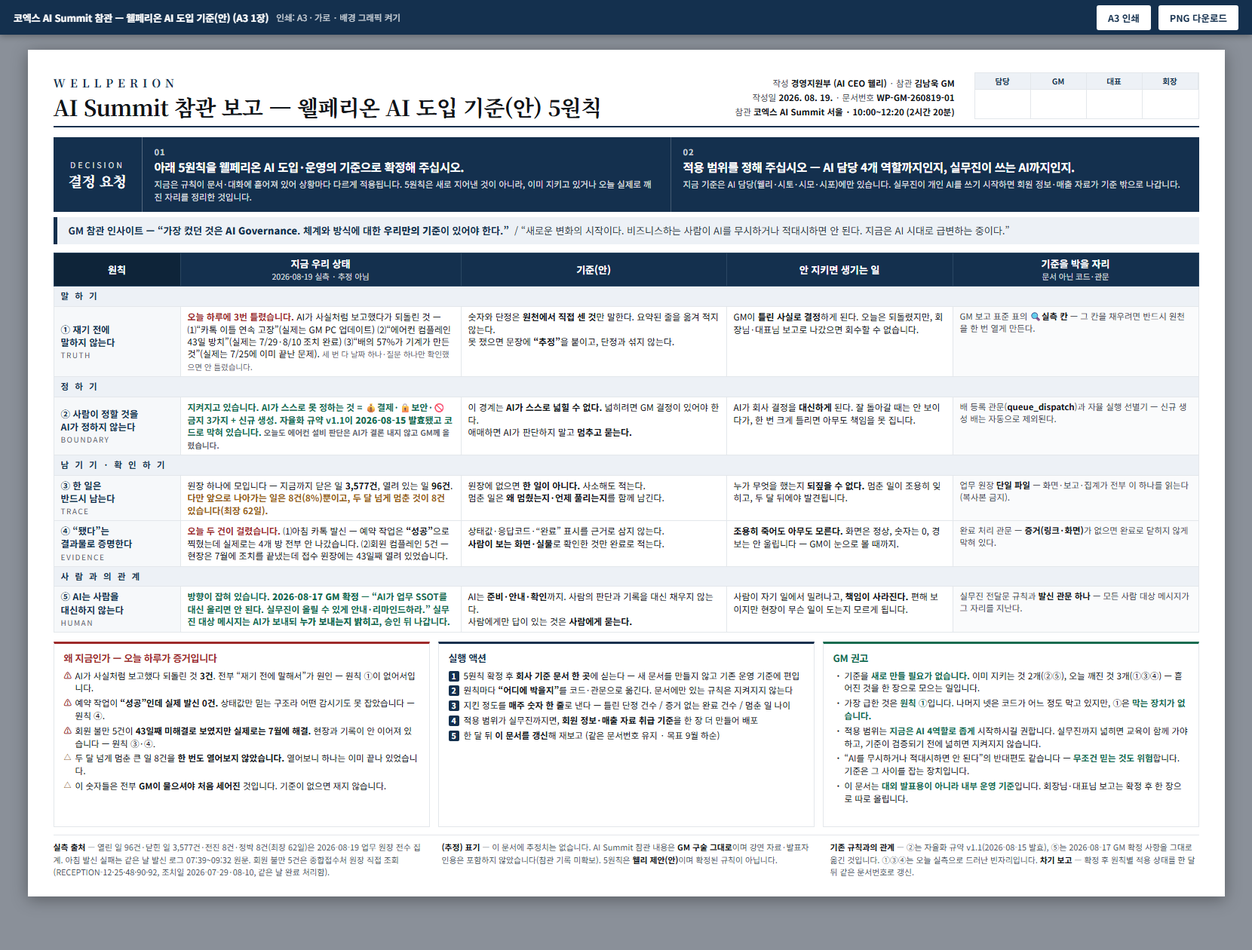
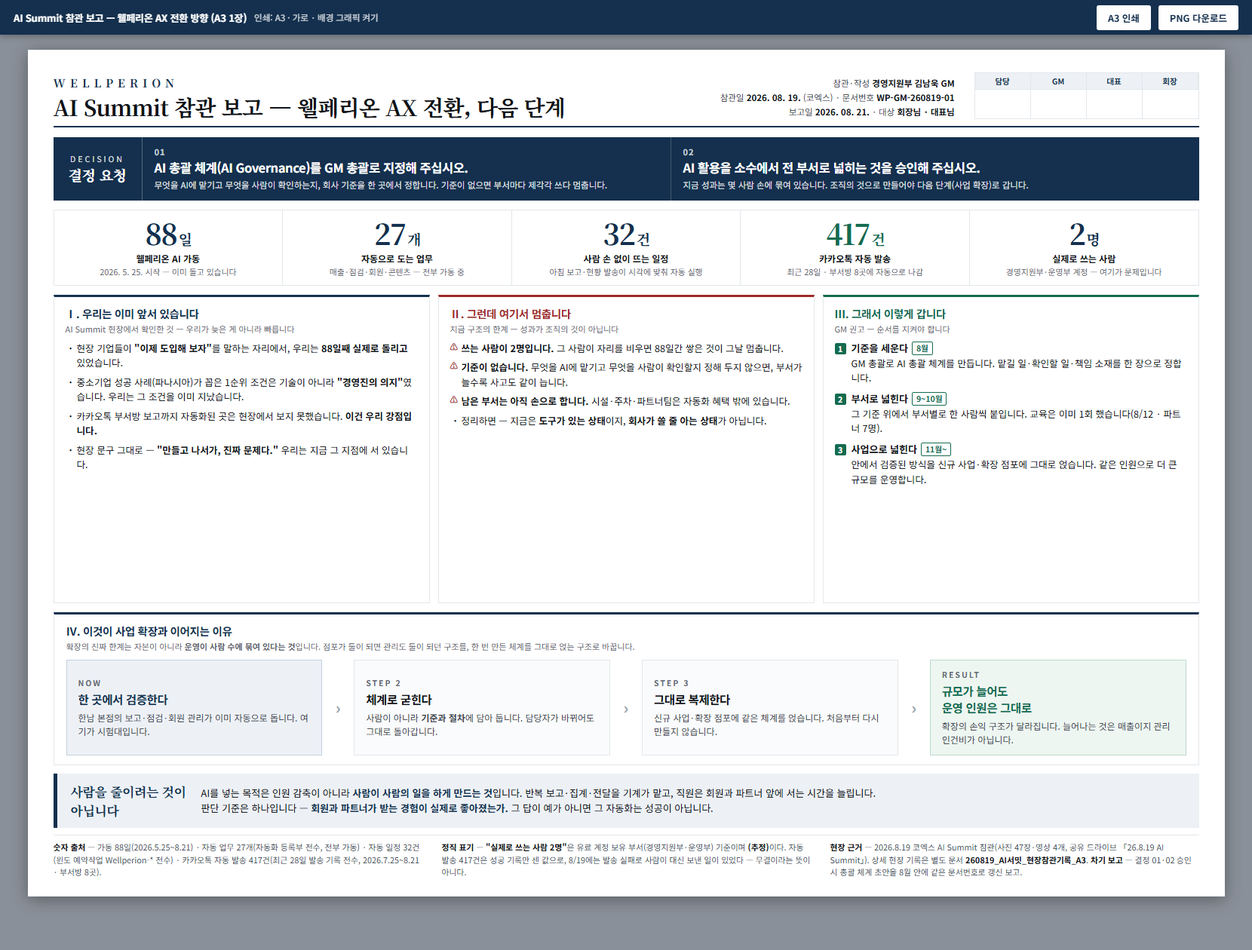
feat(gm): AI Summit 참관 보고 A3 — 경영진 보고본으로 재작성 (GM 지시 2026-08-21)
AI 내부 규율(5원칙)·실수 자백을 빼고, 경영진이 3초에 읽는 숫자 5개와
①우리는 이미 앞서 있다 ②그런데 쓰는 사람이 2명이다 ③3단계로 넓힌다 ④사업 확장으로 이어지는 흐름
⑤사람을 줄이려는 것이 아니다 — 로 다시 썼다. 결정 요청 = AI 총괄 체계 GM 지정 · 전 부서 확대 승인.
파일명·문서번호는 유지해 기존 링크가 그대로 산다.

diff --git a/3. 웰페리온 가이드/reports/260819_AI서밋_AI거버넌스기준_A3.html b/3. 웰페리온 가이드/reports/260819_AI서밋_AI거버넌스기준_A3.html
@@ -2,7 +2,7 @@
 <html lang="ko">
 <head>
 <meta charset="UTF-8">
-<title>코엑스 AI Summit 참관 — 웰페리온 AI 도입 기준(안) · A3 보고서</title>
+<title>코엑스 AI Summit 참관 — 웰페리온 AX 전환 방향 · A3 보고서</title>
 <link rel="preconnect" href="https://fonts.googleapis.com">
 <link rel="preconnect" href="https://fonts.gstatic.com" crossorigin>
 <link href="https://fonts.googleapis.com/css2?family=Noto+Sans+KR:wght@400;500;700;900&family=Noto+Serif+KR:wght@600;700&display=swap" rel="stylesheet">
@@ -56,55 +56,72 @@
   .ask .it{ flex:1; padding:11px 16px; border-right:1px solid rgba(255,255,255,.2); }
   .ask .it:last-child{ border-right:0; }
   .ask .n{ font-size:11px; font-weight:700; opacity:.75; letter-spacing:1px; }
-  .ask .q{ font-size:15.5px; font-weight:700; line-height:1.35; margin-top:2px; letter-spacing:-.4px; }
+  .ask .q{ font-size:16.5px; font-weight:700; line-height:1.35; margin-top:2px; letter-spacing:-.4px; }
   .ask .d{ font-size:11.5px; line-height:1.5; opacity:.86; margin-top:4px; }
 
-  /* 인사이트 밴드 (경고 밴드 자리 · 색만 네이비 계열) */
-  .band{ margin-top:7px; background:var(--navy-bg); border-left:5px solid var(--navy); color:var(--navy);
-    padding:8px 15px; font-size:13px; font-weight:700; line-height:1.5; }
-  .band span{ font-weight:400; color:#2E3B47; }
+  /* 숫자 밴드 — 경영진이 3초에 읽는 자리 */
+  .kpi{ margin-top:12px; display:flex; border:1px solid var(--line); }
+  .kpi .c{ flex:1; padding:11px 8px 10px; text-align:center; border-right:1px solid var(--line); }
+  .kpi .c:last-child{ border-right:0; }
+  .kpi .n{ font-family:'Noto Serif KR',serif; font-size:38px; font-weight:700; line-height:1;
+    color:var(--navy); letter-spacing:-1.5px; }
+  .kpi .n i{ font-style:normal; font-size:19px; margin-left:2px; }
+  .kpi .l{ font-size:12px; font-weight:700; margin-top:6px; }
+  .kpi .s{ font-size:10.8px; color:#5C666F; margin-top:2px; line-height:1.4; }
+  .kpi .c.hi .n{ color:var(--good); }
 
-  /* ③ 기준표 */
-  .tblwrap{ margin-top:11px; }
-  table{ width:100%; border-collapse:collapse; table-layout:fixed; }
-  th,td{ border:1px solid var(--line); padding:5px 9px; font-size:11.9px; line-height:1.38; vertical-align:top; }
-  thead th{ height:36px; background:var(--navy); color:#fff; font-weight:700; font-size:13px; border-color:#2A4763;
-    vertical-align:middle; }
-  thead th.k{ background:#0E2439; }
-  thead th .sub{ display:block; font-size:10.5px; font-weight:400; opacity:.8; margin-top:1px; }
-  td.k{ background:#F6F8FA; font-weight:700; font-size:12.4px; color:var(--navy); vertical-align:middle; }
-  td.k .en{ display:block; font-size:10px; font-weight:400; color:#5C666F; letter-spacing:1.5px; margin-top:1px; }
-  tr.grp td{ height:22px; background:var(--navy-bg); color:var(--navy); font-weight:700;
-    font-size:11.5px; letter-spacing:2.5px; }
-  .ctr{ text-align:center; }
-  .good{ color:var(--good); font-weight:700; }
-  .warn{ color:var(--warn); font-weight:700; }
-  .bad{ color:var(--bad); font-weight:700; }
-  .est{ color:#5C666F; font-size:10.5px; }
-  td.where{ background:#FAFBFC; font-size:11.4px; color:#3C464F; }
-  td.where b{ color:var(--ink); }
-
-  /* ④ 3분할 */
+  /* ③ 3열 */
   .cols{ margin-top:12px; display:flex; gap:11px; flex:1; }
-  .box{ flex:1; border:1px solid var(--line); border-top:3px solid var(--navy); padding:9px 13px 8px; }
-  .box h3{ font-size:13px; font-weight:700; color:var(--navy); letter-spacing:-.3px; margin-bottom:6px; }
+  .box{ flex:1; border:1px solid var(--line); border-top:3px solid var(--navy); padding:11px 15px 10px;
+    display:flex; flex-direction:column; }
+  .box h3{ font-size:14.5px; font-weight:700; color:var(--navy); letter-spacing:-.3px; }
+  .box .sub{ font-size:11px; color:#5C666F; margin:2px 0 8px; }
   .box ul{ list-style:none; }
-  .box li{ font-size:11.6px; line-height:1.45; padding-left:15px; position:relative; margin-bottom:3px; }
+  .box li{ font-size:12.6px; line-height:1.55; padding-left:15px; position:relative; margin-bottom:6px; }
   .box li::before{ content:'·'; position:absolute; left:5px; font-weight:700; }
+  .box li b{ font-weight:700; }
   .box li.r1::before{ content:'⚠'; left:0; font-size:10.5px; color:var(--bad); }
-  .box li.r2::before{ content:'△'; left:0; font-size:10px; color:var(--warn); }
-  .box li.n::before{ content:counter(a); counter-increment:a; left:0; font-size:10.5px; font-weight:700;
-    color:#fff; background:var(--navy); width:14px; height:14px; line-height:14px; text-align:center; border-radius:2px; top:2px; }
-  .box ul.ord{ counter-reset:a; }
-  .box li.n{ padding-left:20px; }
-  .box.rec{ border-top-color:var(--good); }
-  .box.rec h3{ color:var(--good); }
-  .box.rec b{ color:var(--good); }
   .box.risk{ border-top-color:var(--bad); }
   .box.risk h3{ color:var(--bad); }
+  .box.rec{ border-top-color:var(--good); }
+  .box.rec h3{ color:var(--good); }
+  .box ul.ord{ counter-reset:a; }
+  .box li.n{ padding-left:22px; margin-bottom:8px; }
+  .box li.n::before{ content:counter(a); counter-increment:a; left:0; font-size:10.5px; font-weight:700;
+    color:#fff; background:var(--good); width:15px; height:15px; line-height:15px; text-align:center;
+    border-radius:2px; top:3px; }
+  .stage{ font-size:13px; font-weight:700; }
+  .when{ display:inline-block; font-size:10.5px; font-weight:700; color:var(--good);
+    border:1px solid var(--good); border-radius:2px; padding:0 5px; margin-left:5px; vertical-align:1px; }
+
+  /* ③-2 사업 확장 흐름 */
+  .grow{ margin-top:12px; flex:none; border:1px solid var(--line); border-top:3px solid var(--navy);
+    padding:11px 16px 12px; display:flex; flex-direction:column; }
+  .grow h3{ font-size:14.5px; font-weight:700; color:var(--navy); letter-spacing:-.3px; }
+  .grow .sub{ font-size:11px; color:#5C666F; margin:2px 0 0; }
+  .flow{ margin-top:10px; flex:1; display:flex; align-items:stretch; gap:0; }
+  .flow .st{ flex:1; border:1px solid var(--line); background:#FAFBFC; padding:11px 15px;
+    display:flex; flex-direction:column; justify-content:center; }
+  .flow .st .tag{ font-size:10.5px; font-weight:700; letter-spacing:2px; color:#5C666F; }
+  .flow .st .h{ font-size:15.5px; font-weight:700; letter-spacing:-.4px; margin-top:3px; }
+  .flow .st .d{ font-size:12px; line-height:1.5; color:#3C464F; margin-top:5px; }
+  .flow .st.now{ background:var(--navy-bg); border-color:#C3D0DE; }
+  .flow .st.now .h{ color:var(--navy); }
+  .flow .st.goal{ background:#EDF6F1; border-color:#BCD9CC; }
+  .flow .st.goal .h{ color:var(--good); }
+  .flow .ar{ flex:none; width:42px; display:flex; align-items:center; justify-content:center;
+    font-size:21px; color:#9AA5AF; font-weight:700; }
+
+  /* ④ 목적 밴드 */
+  .why{ margin-top:11px; background:var(--navy-bg); border-left:5px solid var(--navy);
+    padding:11px 18px; display:flex; align-items:center; gap:20px; }
+  .why .h{ font-family:'Noto Serif KR',serif; font-size:17px; font-weight:700; color:var(--navy);
+    letter-spacing:-.5px; white-space:nowrap; }
+  .why .t{ font-size:13px; line-height:1.55; }
+  .why .t b{ font-weight:700; color:var(--navy); }
 
   /* ⑤ 각주 */
-  .foot{ margin-top:10px; border-top:1px solid var(--line); padding-top:7px;
+  .foot{ margin-top:9px; border-top:1px solid var(--line); padding-top:7px;
     display:flex; gap:26px; font-size:10.8px; line-height:1.55; color:#48525B; }
   .foot div{ flex:1; }
   .foot b{ color:var(--ink); }
@@ -113,7 +130,7 @@
 <body>
 
 <div class="bar">
-  <b>코엑스 AI Summit 참관 — 웰페리온 AI 도입 기준(안) (A3 1장)</b>
+  <b>AI Summit 참관 보고 — 웰페리온 AX 전환 방향 (A3 1장)</b>
   <span class="note">인쇄: A3 · 가로 · 배경 그래픽 켜기</span>
   <span class="sp"></span>
   <button onclick="window.print()">A3 인쇄</button>
@@ -126,12 +143,12 @@
   <div class="head">
     <div>
       <div class="brand">WELLPERION</div>
-      <div class="title">AI Summit 참관 보고 — 웰페리온 AI 도입 기준(안) 5원칙</div>
+      <div class="title">AI Summit 참관 보고 — 웰페리온 AX 전환, 다음 단계</div>
     </div>
     <div class="meta">
-      작성 <b>경영지원부 (AI CEO 웰리)</b> · 참관 <b>김남욱 GM</b><br>
-      작성일 <b>2026. 08. 19.</b> · 문서번호 <b>WP-GM-260819-01</b><br>
-      참관 <b>코엑스 AI Summit 서울 · 10:00~12:20 (2시간 20분)</b>
+      참관·작성 <b>경영지원부 김남욱 GM</b><br>
+      참관일 <b>2026. 08. 19.</b> (코엑스) · 문서번호 <b>WP-GM-260819-01</b><br>
+      보고일 <b>2026. 08. 21.</b> · 대상 <b>회장님 · 대표님</b>
     </div>
     <div class="sign">
       <div><div class="t">담당</div><div class="b"></div></div>
@@ -147,122 +164,132 @@
     <div class="items">
       <div class="it">
         <div class="n">01</div>
-        <div class="q">아래 5원칙을 웰페리온 AI 도입·운영의 기준으로 확정해 주십시오.</div>
-        <div class="d">지금은 규칙이 문서·대화에 흩어져 있어 상황마다 다르게 적용됩니다. 5원칙은 새로 지어낸 것이 아니라, 이미 지키고 있거나 오늘 실제로 깨진 자리를 정리한 것입니다.</div>
+        <div class="q">AI 총괄 체계(AI Governance)를 GM 총괄로 지정해 주십시오.</div>
+        <div class="d">무엇을 AI에 맡기고 무엇을 사람이 확인하는지, 회사 기준을 한 곳에서 정합니다. 기준이 없으면 부서마다 제각각 쓰다 멈춥니다.</div>
       </div>
       <div class="it">
         <div class="n">02</div>
-        <div class="q">적용 범위를 정해 주십시오 — AI 담당 4개 역할까지인지, 실무진이 쓰는 AI까지인지.</div>
-        <div class="d">지금 기준은 AI 담당(웰리·시토·시모·시포)에만 있습니다. 실무진이 개인 AI를 쓰기 시작하면 회원 정보·매출 자료가 기준 밖으로 나갑니다.</div>
+        <div class="q">AI 활용을 소수에서 전 부서로 넓히는 것을 승인해 주십시오.</div>
+        <div class="d">지금 성과는 몇 사람 손에 묶여 있습니다. 조직의 것으로 만들어야 다음 단계(사업 확장)로 갑니다.</div>
       </div>
     </div>
   </div>
 
-  <!-- 인사이트 밴드 -->
-  <div class="band">
-    GM 참관 인사이트 — “가장 컸던 것은 <b>AI Governance</b>. 체계와 방식에 대한 <b>우리만의 기준</b>이 있어야 한다.”
-    <span>&nbsp;/ “새로운 변화의 시작이다. 비즈니스하는 사람이 AI를 무시하거나 적대시하면 안 된다. 지금은 AI 시대로 급변하는 중이다.”</span>
+  <!-- 숫자 밴드 -->
+  <div class="kpi">
+    <div class="c">
+      <div class="n">88<i>일</i></div>
+      <div class="l">웰페리온 AI 가동</div>
+      <div class="s">2026. 5. 25. 시작 — 이미 돌고 있습니다</div>
+    </div>
+    <div class="c">
+      <div class="n">27<i>개</i></div>
+      <div class="l">자동으로 도는 업무</div>
+      <div class="s">매출·점검·회원·콘텐츠 — 전부 가동 중</div>
+    </div>
+    <div class="c">
+      <div class="n">32<i>건</i></div>
+      <div class="l">사람 손 없이 뜨는 일정</div>
+      <div class="s">아침 보고·현황 발송이 시각에 맞춰 자동 실행</div>
+    </div>
+    <div class="c hi">
+      <div class="n">417<i>건</i></div>
+      <div class="l">카카오톡 자동 발송</div>
+      <div class="s">최근 28일 · 부서방 8곳에 자동으로 나감</div>
+    </div>
+    <div class="c">
+      <div class="n">2<i>명</i></div>
+      <div class="l">실제로 쓰는 사람</div>
+      <div class="s">경영지원부·운영부 계정 — 여기가 문제입니다</div>
+    </div>
   </div>
 
-  <!-- ③ 기준표 -->
-  <div class="tblwrap">
-  <table>
-    <colgroup><col style="width:168px"><col style="width:372px"><col style="width:352px"><col style="width:300px"><col></colgroup>
-    <thead>
-      <tr>
-        <th class="k">원칙</th>
-        <th>지금 우리 상태<span class="sub">2026-08-19 실측 · 추정 아님</span></th>
-        <th>기준(안)</th>
-        <th>안 지키면 생기는 일</th>
-        <th>기준을 박을 자리<span class="sub">문서 아닌 코드·관문</span></th>
-      </tr>
-    </thead>
-    <tbody>
-      <tr class="grp"><td colspan="5">말 하 기</td></tr>
-      <tr>
-        <td class="k">① 재기 전에<br>말하지 않는다<span class="en">TRUTH</span></td>
-        <td><b class="bad">오늘 하루에 3번 틀렸습니다.</b> AI가 사실처럼 보고했다가 되돌린 것 — ⑴“카톡 이틀 연속 고장”(실제는 GM PC 업데이트) ⑵“에어컨 컴플레인 43일 방치”(실제는 7/29·8/10 조치 완료) ⑶“배의 57%가 기계가 만든 것”(실제는 7/25에 이미 끝난 문제). <span class="est">세 번 다 날짜 하나·질문 하나만 확인했으면 안 틀렸습니다.</span></td>
-        <td>숫자와 단정은 <b>원천에서 직접 센 것</b>만 말한다. 요약된 줄을 옮겨 적지 않는다.<br>못 쟀으면 문장에 <b>“추정”</b>을 붙이고, 단정과 섞지 않는다.</td>
-        <td>GM이 <b>틀린 사실로 결정</b>하게 된다. 오늘은 되돌렸지만, 회장님·대표님 보고로 나갔으면 회수할 수 없습니다.</td>
-        <td class="where">GM 보고 표준 표의 <b>🔍실측 칸</b> — 그 칸을 채우려면 반드시 원천을 한 번 열게 만든다.</td>
-      </tr>
-
-      <tr class="grp"><td colspan="5">정 하 기</td></tr>
-      <tr>
-        <td class="k">② 사람이 정할 것을<br>AI가 정하지 않는다<span class="en">BOUNDARY</span></td>
-        <td class="good">지켜지고 있습니다. AI가 스스로 못 정하는 것 = 💰결제·🔒보안·🚫금지 3가지 + 신규 생성. 자율화 규약 v1.1이 <b>2026-08-15 발효</b>됐고 코드로 막혀 있습니다.<span class="est"> 오늘도 에어컨 설비 판단은 AI가 결론 내지 않고 GM께 올렸습니다.</span></td>
-        <td>이 경계는 <b>AI가 스스로 넓힐 수 없다.</b> 넓히려면 GM 결정이 있어야 한다.<br>애매하면 AI가 판단하지 말고 <b>멈추고 묻는다.</b></td>
-        <td>AI가 회사 결정을 <b>대신하게</b> 된다. 잘 돌아갈 때는 안 보이다가, 한 번 크게 틀리면 아무도 책임을 못 집니다.</td>
-        <td class="where">배 등록 관문(<b>queue_dispatch</b>)과 자율 실행 선별기 — 신규 생성 배는 자동으로 제외된다.</td>
-      </tr>
-
-      <tr class="grp"><td colspan="5">남 기 기 · 확 인 하 기</td></tr>
-      <tr>
-        <td class="k">③ 한 일은<br>반드시 남는다<span class="en">TRACE</span></td>
-        <td>원장 하나에 모입니다 — 지금까지 닫은 일 <b>3,577건</b>, 열려 있는 일 <b>96건</b>. <span class="warn">다만 앞으로 나아가는 일은 8건(8%)뿐이고, 두 달 넘게 멈춘 것이 8건 있습니다(최장 62일).</span></td>
-        <td>원장에 없으면 <b>한 일이 아니다.</b> 사소해도 적는다.<br>멈춘 일은 <b>왜 멈췄는지·언제 풀리는지</b>를 함께 남긴다.</td>
-        <td>누가 무엇을 했는지 <b>되짚을 수 없다.</b> 멈춘 일이 조용히 잊히고, 두 달 뒤에야 발견됩니다.</td>
-        <td class="where">업무 원장 <b>단일 파일</b> — 화면·보고·집계가 전부 이 하나를 읽는다(복사본 금지).</td>
-      </tr>
-      <tr>
-        <td class="k">④ “됐다”는<br>결과물로 증명한다<span class="en">EVIDENCE</span></td>
-        <td><b class="bad">오늘 두 건이 걸렸습니다.</b> ⑴아침 카톡 발신 — 예약 작업은 <b>“성공”</b>으로 찍혔는데 실제로는 4개 방 전부 안 나갔습니다. ⑵회원 컴플레인 5건 — 현장은 7월에 조치를 끝냈는데 접수 원장에는 43일째 열려 있었습니다.</td>
-        <td>상태값·응답코드·“완료” 표시를 근거로 삼지 않는다.<br><b>사람이 보는 화면·실물</b>로 확인한 것만 완료로 적는다.</td>
-        <td><b>조용히 죽어도 아무도 모른다.</b> 화면은 정상, 숫자는 0, 경보는 안 울립니다 — GM이 눈으로 볼 때까지.</td>
-        <td class="where">완료 처리 관문 — <b>증거(링크·화면)</b>가 없으면 완료로 닫히지 않게 막혀 있다.</td>
-      </tr>
-
-      <tr class="grp"><td colspan="5">사 람 과 의 관 계</td></tr>
-      <tr>
-        <td class="k">⑤ AI는 사람을<br>대신하지 않는다<span class="en">HUMAN</span></td>
-        <td class="good">방향이 잡혀 있습니다. <b>2026-08-17 GM 확정</b> — “AI가 업무 SSOT를 대신 올리면 안 된다. 실무진이 올릴 수 있게 안내·리마인드하라.” 실무진 대상 메시지는 AI가 보내되 <b>누가 보내는지 밝히고</b>, 승인 뒤 나갑니다.</td>
-        <td>AI는 <b>준비·안내·확인</b>까지. 사람의 판단과 기록을 대신 채우지 않는다.<br>사람에게만 답이 있는 것은 <b>사람에게 묻는다.</b></td>
-        <td>사람이 자기 일에서 밀려나고, <b>책임이 사라진다.</b> 편해 보이지만 현장이 무슨 일이 도는지 모르게 됩니다.</td>
-        <td class="where">실무진 전달문 규칙과 <b>발신 관문 하나</b> — 모든 사람 대상 메시지가 그 자리를 지난다.</td>
-      </tr>
-    </tbody>
-  </table>
-  </div>
-
-  <!-- ④ 3분할 -->
+  <!-- ③ 3열 -->
   <div class="cols">
-    <div class="box risk">
-      <h3>왜 지금인가 — 오늘 하루가 증거입니다</h3>
-      <ul>
-        <li class="r1">AI가 사실처럼 보고했다 되돌린 것 <b>3건</b>. 전부 “재기 전에 말해서”가 원인 — 원칙 ①이 없어서입니다.</li>
-        <li class="r1">예약 작업이 <b>“성공”인데 실제 발신 0건.</b> 상태값만 믿는 구조라 어떤 감시기도 못 잡았습니다 — 원칙 ④.</li>
-        <li class="r1">회원 불만 5건이 <b>43일째 미해결로 보였지만 실제로는 7월에 해결.</b> 현장과 기록이 안 이어져 있습니다 — 원칙 ③·④.</li>
-        <li class="r2">두 달 넘게 멈춘 큰 일 8건을 <b>한 번도 열어보지 않았습니다.</b> 열어보니 하나는 이미 끝나 있었습니다.</li>
-        <li class="r2">이 숫자들은 전부 <b>GM이 물으셔야 처음 세어진</b> 것입니다. 기준이 없으면 재지 않습니다.</li>
-      </ul>
-    </div>
+
     <div class="box">
-      <h3>실행 액션</h3>
-      <ul class="ord">
-        <li class="n">5원칙 확정 후 <b>회사 기준 문서 한 곳</b>에 싣는다 — 새 문서를 만들지 않고 기존 운영 기준에 편입</li>
-        <li class="n">원칙마다 <b>“어디에 박을지”</b>를 코드·관문으로 옮긴다. 문서에만 있는 규칙은 지켜지지 않는다</li>
-        <li class="n">지킨 정도를 <b>매주 숫자 한 줄</b>로 낸다 — 틀린 단정 건수 / 증거 없는 완료 건수 / 멈춘 일 나이</li>
-        <li class="n">적용 범위가 실무진까지면, <b>회원 정보·매출 자료 취급 기준</b>을 한 장 더 만들어 배포</li>
-        <li class="n">한 달 뒤 <b>이 문서를 갱신</b>해 재보고 (같은 문서번호 유지 · 목표 9월 하순)</li>
+      <h3>Ⅰ. 우리는 이미 앞서 있습니다</h3>
+      <div class="sub">AI Summit 현장에서 확인한 것 — 우리가 늦은 게 아니라 빠릅니다</div>
+      <ul>
+        <li>현장 기업들이 <b>"이제 도입해 보자"</b>를 말하는 자리에서, 우리는 <b>88일째 실제로 돌리고</b> 있었습니다.</li>
+        <li>중소기업 성공 사례(파나시아)가 꼽은 1순위 조건은 기술이 아니라 <b>"경영진의 의지"</b>였습니다. 우리는 그 조건을 이미 지났습니다.</li>
+        <li>카카오톡 부서방 보고까지 자동화된 곳은 현장에서 보지 못했습니다. <b>이건 우리 강점입니다.</b></li>
+        <li>현장 문구 그대로 — <b>"만들고 나서가, 진짜 문제다."</b> 우리는 지금 그 지점에 서 있습니다.</li>
       </ul>
     </div>
-    <div class="box rec">
-      <h3>GM 권고</h3>
+
+    <div class="box risk">
+      <h3>Ⅱ. 그런데 여기서 멈춥니다</h3>
+      <div class="sub">지금 구조의 한계 — 성과가 조직의 것이 아닙니다</div>
       <ul>
-        <li>기준을 <b>새로 만들 필요가 없습니다.</b> 이미 지키는 것 2개(②⑤), 오늘 깨진 것 3개(①③④) — 흩어진 것을 한 장으로 모으는 일입니다.</li>
-        <li>가장 급한 것은 <b>원칙 ①</b>입니다. 나머지 넷은 코드가 어느 정도 막고 있지만, ①은 <b>막는 장치가 없습니다.</b></li>
-        <li>적용 범위는 <b>지금은 AI 4역할로 좁게</b> 시작하시길 권합니다. 실무진까지 넓히면 교육이 함께 가야 하고, 기준이 검증되기 전에 넓히면 지켜지지 않습니다.</li>
-        <li>“AI를 무시하거나 적대시하면 안 된다”의 반대편도 같습니다 — <b>무조건 믿는 것도 위험</b>합니다. 기준은 그 사이를 잡는 장치입니다.</li>
-        <li>이 문서는 <b>대외 발표용이 아니라 내부 운영 기준</b>입니다. 회장님·대표님 보고는 확정 후 한 장으로 따로 올립니다.</li>
+        <li class="r1"><b>쓰는 사람이 2명입니다.</b> 그 사람이 자리를 비우면 88일간 쌓은 것이 그날 멈춥니다.</li>
+        <li class="r1"><b>기준이 없습니다.</b> 무엇을 AI에 맡기고 무엇을 사람이 확인할지 정해 두지 않으면, 부서가 늘수록 사고도 같이 늡니다.</li>
+        <li class="r1"><b>남은 부서는 아직 손으로 합니다.</b> 시설·주차·파트너팀은 자동화 혜택 밖에 있습니다.</li>
+        <li>정리하면 — 지금은 <b>도구가 있는 상태</b>이지, <b>회사가 쓸 줄 아는 상태</b>가 아닙니다.</li>
       </ul>
+    </div>
+
+    <div class="box rec">
+      <h3>Ⅲ. 그래서 이렇게 갑니다</h3>
+      <div class="sub">GM 권고 — 순서를 지켜야 합니다</div>
+      <ul class="ord">
+        <li class="n"><span class="stage">기준을 세운다</span><span class="when">8월</span><br>
+          GM 총괄로 AI 총괄 체계를 만듭니다. 맡길 일·확인할 일·책임 소재를 한 장으로 정합니다.</li>
+        <li class="n"><span class="stage">부서로 넓힌다</span><span class="when">9~10월</span><br>
+          그 기준 위에서 부서별로 한 사람씩 붙입니다. 교육은 이미 1회 했습니다(8/12 · 파트너 7명).</li>
+        <li class="n"><span class="stage">사업으로 넓힌다</span><span class="when">11월~</span><br>
+          안에서 검증된 방식을 신규 사업·확장 점포에 그대로 얹습니다. 같은 인원으로 더 큰 규모를 운영합니다.</li>
+      </ul>
+    </div>
+
+  </div>
+
+  <!-- ③-2 사업 확장 -->
+  <div class="grow">
+    <h3>Ⅳ. 이것이 사업 확장과 이어지는 이유</h3>
+    <div class="sub">확장의 진짜 한계는 자본이 아니라 <b>운영이 사람 수에 묶여 있다는 것</b>입니다. 점포가 둘이 되면 관리도 둘이 되던 구조를, 한 번 만든 체계를 그대로 얹는 구조로 바꿉니다.</div>
+    <div class="flow">
+      <div class="st now">
+        <div class="tag">NOW</div>
+        <div class="h">한 곳에서 검증한다</div>
+        <div class="d">한남 본점의 보고·점검·회원 관리가 이미 자동으로 돕니다. 여기가 시험대입니다.</div>
+      </div>
+      <div class="ar">›</div>
+      <div class="st">
+        <div class="tag">STEP 2</div>
+        <div class="h">체계로 굳힌다</div>
+        <div class="d">사람이 아니라 <b>기준과 절차</b>에 담아 둡니다. 담당자가 바뀌어도 그대로 돌아갑니다.</div>
+      </div>
+      <div class="ar">›</div>
+      <div class="st">
+        <div class="tag">STEP 3</div>
+        <div class="h">그대로 복제한다</div>
+        <div class="d">신규 사업·확장 점포에 같은 체계를 얹습니다. 처음부터 다시 만들지 않습니다.</div>
+      </div>
+      <div class="ar">›</div>
+      <div class="st goal">
+        <div class="tag">RESULT</div>
+        <div class="h">규모가 늘어도<br>운영 인원은 그대로</div>
+        <div class="d">확장의 손익 구조가 달라집니다. 늘어나는 것은 매출이지 관리 인건비가 아닙니다.</div>
+      </div>
+    </div>
+  </div>
+
+  <!-- ④ 목적 -->
+  <div class="why">
+    <div class="h">사람을 줄이려는 것이<br>아닙니다</div>
+    <div class="t">
+      AI를 넣는 목적은 인원 감축이 아니라 <b>사람이 사람의 일을 하게 만드는 것</b>입니다.
+      반복 보고·집계·전달을 기계가 맡고, 직원은 회원과 파트너 앞에 서는 시간을 늘립니다.<br>
+      판단 기준은 하나입니다 — <b>회원과 파트너가 받는 경험이 실제로 좋아졌는가.</b> 그 답이 예가 아니면 그 자동화는 성공이 아닙니다.
     </div>
   </div>
 
   <!-- ⑤ 각주 -->
   <div class="foot">
-    <div><b>실측 출처</b> — 열린 일 96건·닫힌 일 3,577건·전진 8건·정박 8건(최장 62일)은 2026-08-19 업무 원장 전수 집계. 아침 발신 실패는 같은 날 발신 로그 07:39~09:32 원문. 회원 불만 5건은 종합접수처 원장 직접 조회(RECEPTION-12·25·48·90·92, 조치일 2026-07-29·08-10, 같은 날 완료 처리함).</div>
-    <div><b>(추정) 표기</b> — 이 문서에 추정치는 없습니다. AI Summit 참관 내용은 <b>GM 구술 그대로</b>이며 강연 자료·발표자 인용은 포함하지 않았습니다(참관 기록 미확보). 5원칙은 <b>웰리 제안(안)</b>이며 확정된 규칙이 아닙니다.</div>
-    <div><b>기존 규칙과의 관계</b> — ②는 자율화 규약 v1.1(2026-08-15 발효), ⑤는 2026-08-17 GM 확정 사항을 그대로 옮긴 것입니다. ①③④는 오늘 실측으로 드러난 빈자리입니다. <b>차기 보고</b> — 확정 후 원칙별 적용 상태를 한 달 뒤 같은 문서번호로 갱신.</div>
+    <div><b>숫자 출처</b> — 가동 88일(2026.5.25~8.21) · 자동 업무 27개(자동화 등록부 전수, 전부 가동) · 자동 일정 32건(윈도 예약작업 Wellperion-* 전수) · 카카오톡 자동 발송 417건(최근 28일 발송 기록 전수, 2026.7.25~8.21 · 부서방 8곳).</div>
+    <div><b>정직 표기</b> — <b>"실제로 쓰는 사람 2명"</b>은 유료 계정 보유 부서(경영지원부·운영부) 기준이며 <b>(추정)</b>이다. 자동 발송 417건은 성공 기록만 센 값으로, 8/19에는 발송 실패로 사람이 대신 보낸 일이 있었다 — 무결이라는 뜻이 아니다.</div>
+    <div><b>현장 근거</b> — 2026.8.19 코엑스 AI Summit 참관(사진 47장·영상 4개, 공유 드라이브 「26.8.19 AI Summit」). 상세 현장 기록은 별도 문서 <b>260819_AI서밋_현장참관기록_A3</b>. <b>차기 보고</b> — 결정 01·02 승인 시 총괄 체계 초안을 8월 안에 같은 문서번호로 갱신 보고.</div>
   </div>
 
 </div>
@@ -278,7 +305,7 @@ document.getElementById('png').onclick = function () {
   html2canvas(document.getElementById('sheet'), { scale: 2, backgroundColor: '#ffffff' })
     .then(function (canvas) {
       var a = document.createElement('a');
-      a.download = '260819_AI서밋_AI거버넌스기준_A3.png';
+      a.download = '260819_AI서밋_AX전환방향_A3.png';
       a.href = canvas.toDataURL('image/png');
       a.click();
     })
